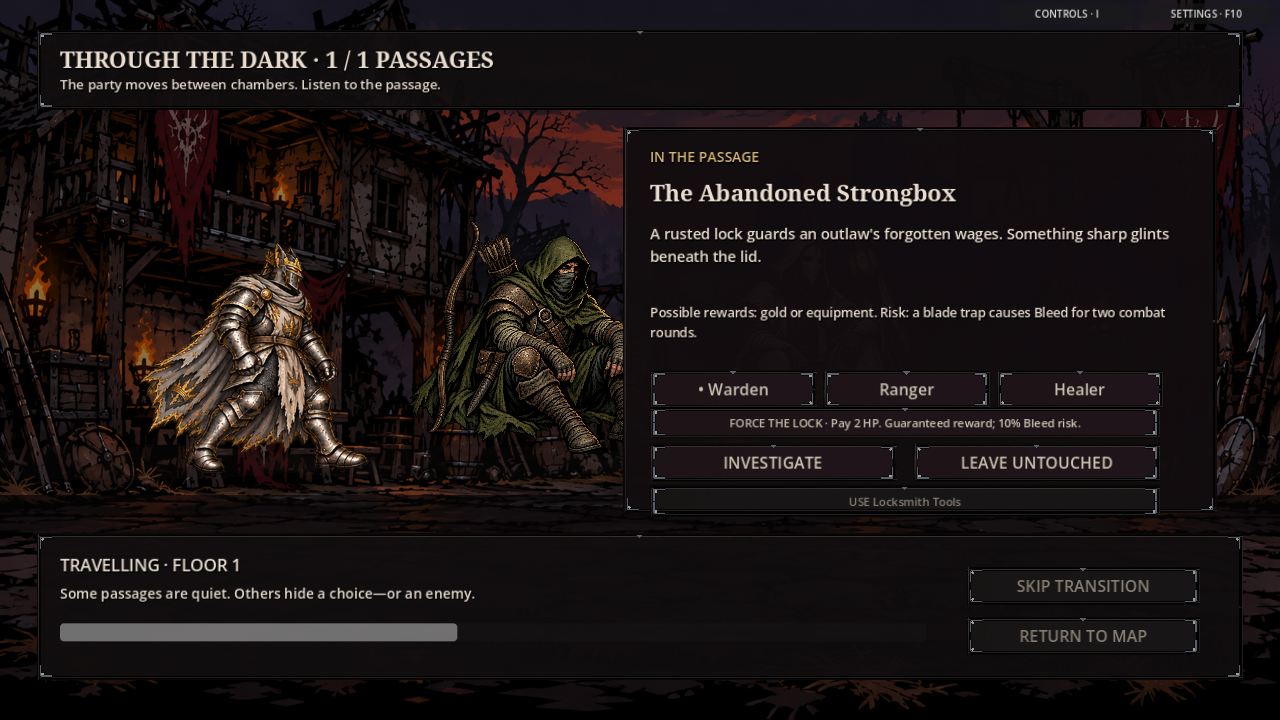
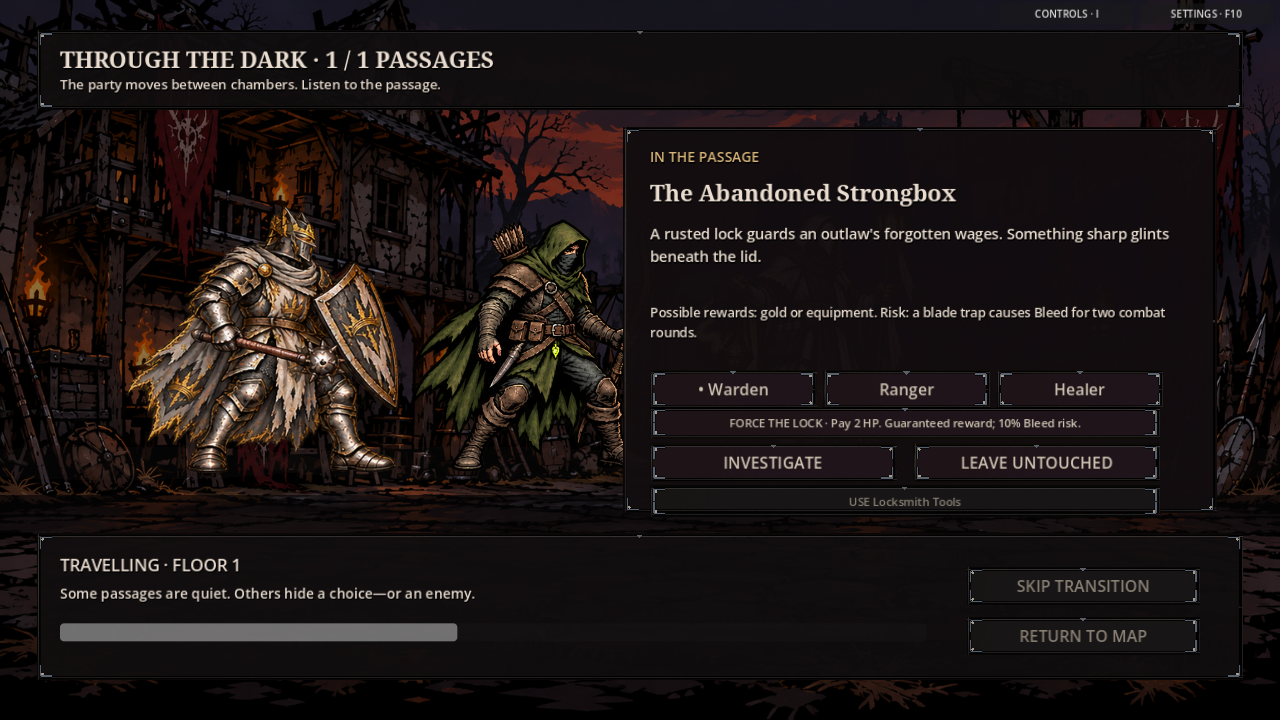
Add grimdark dungeon entrance and consistent standing party poses

Changed region(s): [[0.0938, 0.275, 0.5, 0.6722]]

diff --git a/docs/room_travel/README.md b/docs/room_travel/README.md
@@ -1,12 +1,18 @@
 # Room-to-room dungeon prototype
 
-[Watch the prototype](prototype.gif) · [Map](map.png) · [Travel event](event.png) · [Outcome](outcome.png)
+[Entrance chamber](entrance.png) · [Standing lineup](standing-lineup.png) · [Watch the prototype](prototype.gif) · [Map](map.png) · [Travel event](event.png) · [Outcome](outcome.png)
+
+New procedural expeditions begin in a grimdark entrance chamber. Click the iron
+gate or Dungeon Map to choose a route; clicking the gate does not move the party
+or spend resources. While at the entrance, the map can return to the chamber.
 
 Hover or focus a reachable room to highlight its route and inspect known details.
 Click it to travel automatically. Unexplored neighbouring rooms remain silhouettes;
 cleared rooms are marked. Inventory, scouting, room actions and retreat remain
-available. The stationary party uses the selected complete costume art with subtle
-breathing, avoiding the need for walking frames for each outfit.
+available. The party stands in combat-ready poses using selected complete costume art with
+subtle breathing. Standing body heights match approximately across the five
+classes; Warden and Crusader are 8% taller and 5% broader. These are visual
+proportions for the map, entrance and travel; combat rules and stats are unchanged.
 
 Each passage takes about 1.4 seconds. Most newly generated passages are quiet;
 others contain a discovery, gold or a lone-enemy ambush. Existing unresolved
@@ -33,7 +39,7 @@ passage outcomes.
 
 Built on the Warden outfit integration branch. Neither branch is merged into main.
 
-Validation: 85 of 86 smoke checks pass, including actual passage combat,
+Validation: 87 of 88 smoke checks pass, including actual passage combat,
 multi-edge routes, stale-transition isolation, saved outcomes, mode switching,
 Watch protection, event choices and the complete legacy dungeon lifecycle.
 The graveyard CemeteryMarker failure is reproduced on unchanged main. Some
